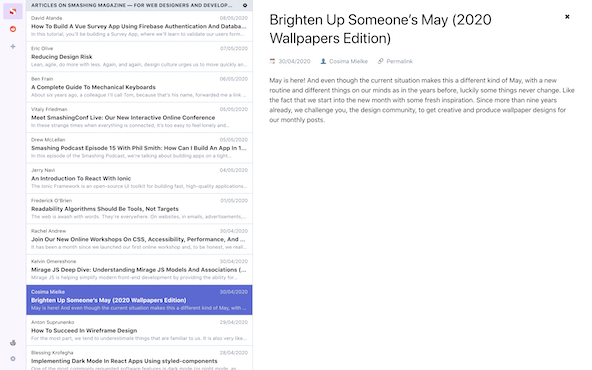
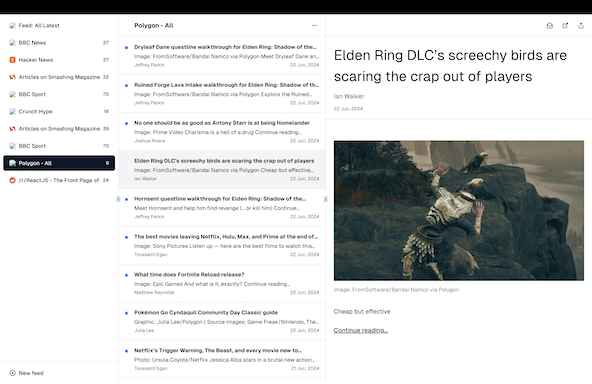
More UI

diff --git a/src/components/Navigation.tsx b/src/components/Navigation.tsx
@@ -86,8 +86,8 @@ export const Navigation = () => {
   };
 
   return (
-    <nav className="p-2 h-screen overflow-auto">
-      <ul className="space-y-1">
+    <nav className="h-screen overflow-auto flex flex-col">
+      <ul className="p-2 space-y-1 flex-1">
         {feeds.map((feed, i) => {
           const unreadCount = feed.items.reduce(
             (prev, current) => prev + (current.read ? 0 : 1),
@@ -97,7 +97,7 @@ export const Navigation = () => {
           return (
             <li key={`feed-${i}`}>
               <Button
-                className="w-full"
+                className="w-full space-x-2"
                 onClick={() => selectFeed(i)}
                 variant={
                   typeof selectedFeedIndex !== "undefined" &&
@@ -107,7 +107,7 @@ export const Navigation = () => {
                 }
               >
                 <Image
-                  className="rounded mr-2 w-4 h-4"
+                  className="rounded w-4 h-4"
                   src={feed.icon}
                   alt={feed.title}
                   width={24}
@@ -117,58 +117,55 @@ export const Navigation = () => {
                   {feed.title}
                 </span>
                 {unreadCount > 0 ? (
-                  <span className="">{unreadCount}</span>
+                  <span className="text-xs">{unreadCount}</span>
                 ) : null}
               </Button>
             </li>
           );
         })}
-        <li>
-          <Dialog
-            open={isAddFeedDialogOpen}
-            onOpenChange={setAddFeedDialogOpen}
-          >
-            <DialogTrigger asChild>
-              <Button className="w-full" variant="ghost">
-                <PlusCircle className="mr-2 w-4 h-4" />
-                <span className="flex-1 text-left">New feed</span>
-              </Button>
-            </DialogTrigger>
-            <DialogContent>
-              <DialogHeader>
-                <DialogTitle>Subscribe to new feed</DialogTitle>
-              </DialogHeader>
-              <form className="grid gap-5" onSubmit={handleSubmit}>
-                <fieldset>
-                  <Input
-                    required
-                    disabled={loading}
-                    id="url"
-                    name="url"
-                    onChange={(e) => setUrl(e.target.value)}
-                    placeholder="URL"
-                  />
-                </fieldset>
-                <DialogFooter>
-                  <Button disabled={loading || url.trim() === ""} type="submit">
-                    {loading ? (
-                      <Loader className="animate-spin mr-2 h-4 w-4" />
-                    ) : null}
-                    Subscribe
-                  </Button>
-                  <Button
-                    variant="secondary"
-                    onClick={handleRandom}
-                    type="button"
-                  >
-                    Add random feed
-                  </Button>
-                </DialogFooter>
-              </form>
-            </DialogContent>
-          </Dialog>
-        </li>
       </ul>
+      <div className="border-t dark:border-slate-800 p-2">
+        <Dialog open={isAddFeedDialogOpen} onOpenChange={setAddFeedDialogOpen}>
+          <DialogTrigger asChild>
+            <Button className="w-full" variant="ghost">
+              <PlusCircle className="mr-2 w-4 h-4" />
+              <span className="flex-1 text-left">New feed</span>
+            </Button>
+          </DialogTrigger>
+          <DialogContent>
+            <DialogHeader>
+              <DialogTitle>Subscribe to new feed</DialogTitle>
+            </DialogHeader>
+            <form onSubmit={handleSubmit}>
+              <fieldset className="mb-5">
+                <Input
+                  required
+                  disabled={loading}
+                  id="url"
+                  name="url"
+                  onChange={(e) => setUrl(e.target.value)}
+                  placeholder="URL"
+                />
+              </fieldset>
+              <DialogFooter>
+                <Button disabled={loading || url.trim() === ""} type="submit">
+                  {loading ? (
+                    <Loader className="animate-spin mr-2 h-4 w-4" />
+                  ) : null}
+                  Subscribe
+                </Button>
+                <Button
+                  variant="secondary"
+                  onClick={handleRandom}
+                  type="button"
+                >
+                  Add random feed
+                </Button>
+              </DialogFooter>
+            </form>
+          </DialogContent>
+        </Dialog>
+      </div>
     </nav>
   );
 };

diff --git a/src/components/FeedItems.tsx b/src/components/FeedItems.tsx
@@ -27,6 +27,7 @@ export const FeedItems = () => {
     feeds,
     selectItem,
     selectedFeedIndex,
+    selectedItemIndex,
     deleteFeed,
     updateFeed,
     readItem,
@@ -76,9 +77,14 @@ export const FeedItems = () => {
 
   return (
     <div className="h-screen overflow-auto">
-      <div className="sticky top-0 z-10 pl-10 pr-2 py-2 flex items-center bg-white dark:bg-gray-700 border-b dark:border-slate-800">
+      <div className="sticky top-0 z-10 pl-10 pr-2 py-2 space-x-5 flex items-center bg-white dark:bg-gray-700 border-b dark:border-slate-800">
         <div className="flex-1">
-          {loading ? <Loader className="animate-spin h-4 w-4" /> : null}
+          {loading ? (
+            <Loader className="absolute left-4 top-5 animate-spin h-4 w-4" />
+          ) : null}
+          <h2 className="line-clamp-1 font-bold">
+            {feeds[selectedFeedIndex].title}
+          </h2>
         </div>
         <Dialog open={isDeleteDialogOpen} onOpenChange={setDeleteDialogOpen}>
           <DropdownMenu>
@@ -125,7 +131,9 @@ export const FeedItems = () => {
           <li
             key={`feed-item-${i}`}
             role="button"
-            className="relative group border-b dark:border-slate-800 p-4 pl-10"
+            className={`relative group border-b dark:border-slate-800 p-4 pl-10 ${
+              selectedItemIndex === i ? "bg-gray-100 dark:bg-gray-800" : ""
+            }`}
             onClick={() => {
               selectItem(i);
               readItem(i, true);
@@ -134,7 +142,9 @@ export const FeedItems = () => {
             {!item.read ? (
               <span className="animate-pulse absolute w-2 h-2 bg-blue-500 rounded-full left-4 top-6"></span>
             ) : null}
-            <h3 className="font-bold line-clamp-1 mb-1">{item.title}</h3>
+            <h3 className="text-sm font-bold line-clamp-1 mb-1">
+              {item.title}
+            </h3>
             <p className="text-sm line-clamp-1 mb-1">{item.description}</p>
             <div className="flex items-center justify-between space-x-5 text-slate-600 dark:text-slate-400">
               <span className="text-xs line-clamp-1">{item.author}</span>

diff --git a/src/components/ItemDisplay.tsx b/src/components/ItemDisplay.tsx
@@ -29,7 +29,7 @@ export const ItemDisplay = () => {
 
   return selectedItem ? (
     <article className="h-screen overflow-auto">
-      <ul className="sticky top-0 px-5 py-2 flex items-center justify-end border-b dark:border-slate-800">
+      <ul className="sticky top-0 p-2 flex bg-white dark:bg-gray-700 items-center justify-end border-b dark:border-slate-800">
         <li>
           {selectedItem.read ? (
             <Button
@@ -66,7 +66,9 @@ export const ItemDisplay = () => {
         </li>
       </ul>
       <header className="border-b dark:border-slate-800 p-5 space-y-3">
-        <h1 className="text-4xl leading-normal">{selectedItem.title}</h1>
+        <h1 className="text-4xl leading-normal text-balance">
+          {selectedItem.title}
+        </h1>
         <span className="block text-slate-600 dark:text-slate-400">
           {selectedItem.author}
         </span>
@@ -74,7 +76,7 @@ export const ItemDisplay = () => {
           {dayjs(selectedItem.pubDate).format("D MMM, YYYY")}
         </span>
       </header>
-      <main className="p-5 prose lg:prose-xl text-black dark:text-white">
+      <main className="p-5 prose prose-slate dark:prose-invert text-black dark:text-white">
         <div
           dangerouslySetInnerHTML={{
             __html: selectedItem.content,
